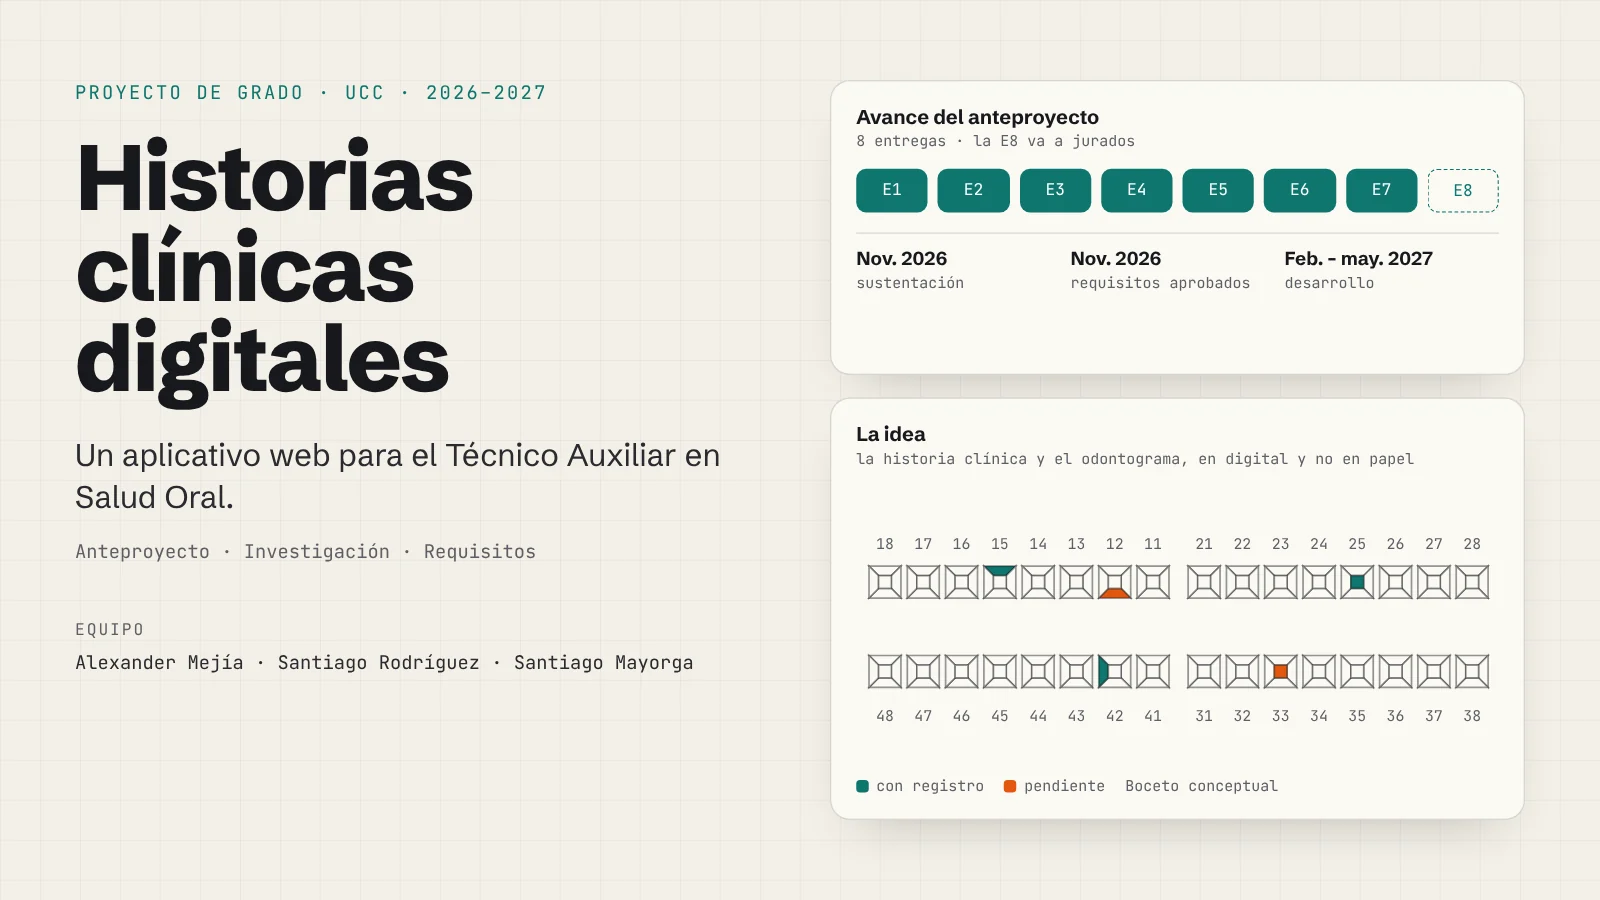
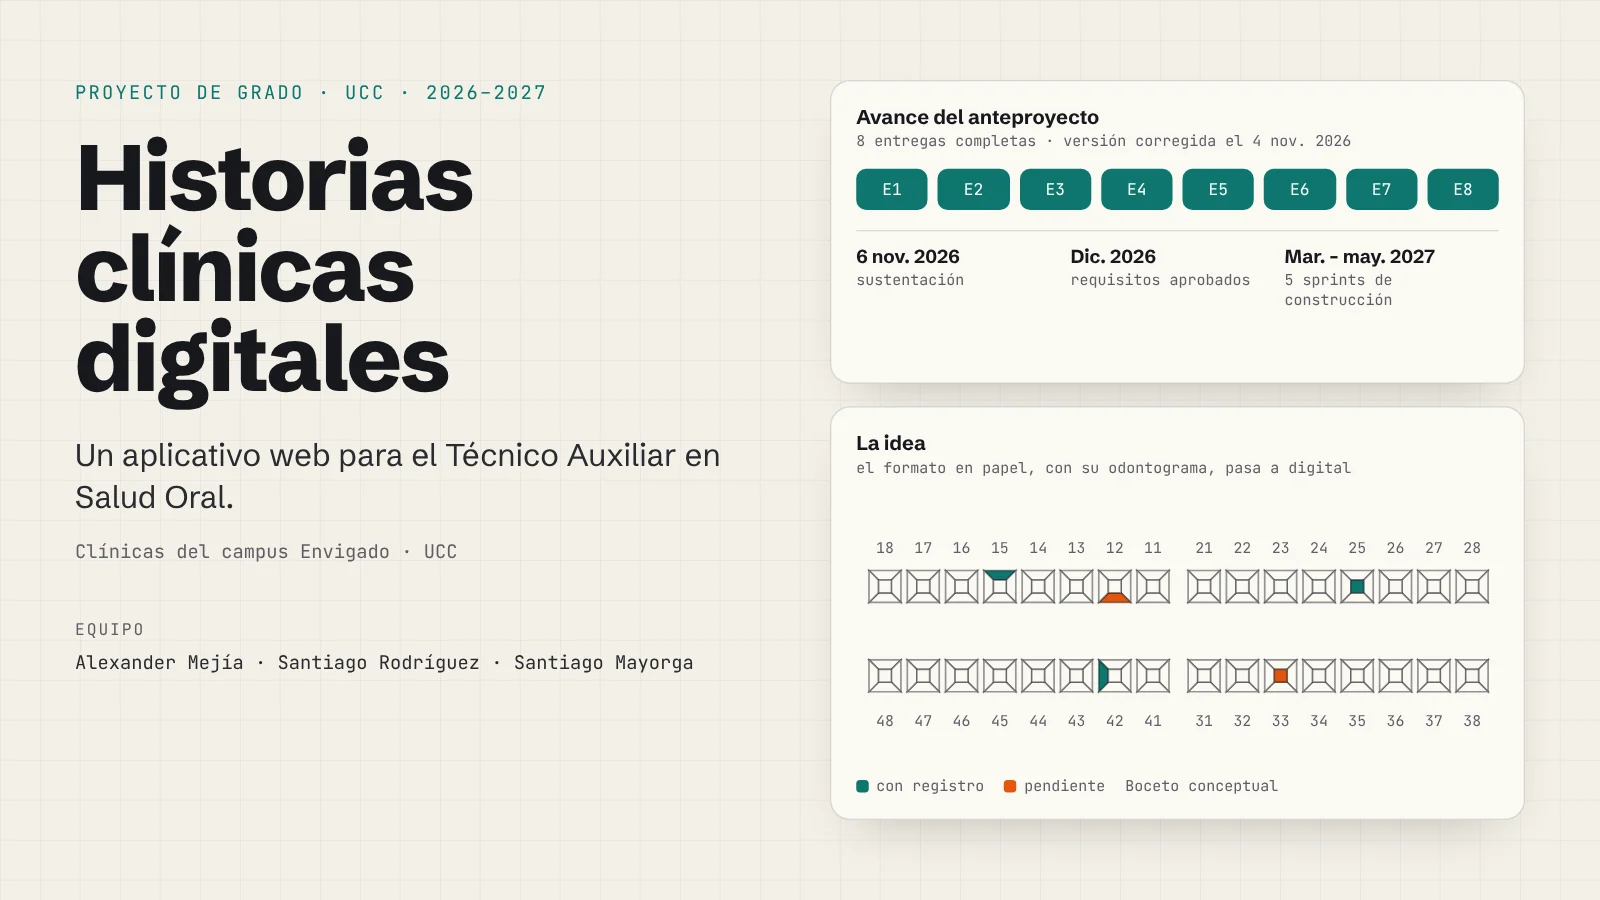
Proyecto de grado: caso completo con datos del anteproyecto (problema, flujo de estados, decisiones, estado y rol)

diff --git a/index.html b/index.html
@@ -33,7 +33,7 @@
   <link rel="me" href="https://github.com/AlexanderM-Code">
   <link rel="me" href="https://www.linkedin.com/in/alexander-mejia-ospina">
   <link rel="preconnect" href="https://cinex-api-lt2q.onrender.com" crossorigin>
-  <link rel="stylesheet" href="css/styles.css?v=2026-11-05c">
+  <link rel="stylesheet" href="css/styles.css?v=2026-11-05d">
   <script>
     // Tema e idioma antes de pintar, para que la página no parpadee.
     (function () {
@@ -53,7 +53,7 @@
       }
     })();
   </script>
-  <script src="js/main.js?v=2026-11-05c" defer></script>
+  <script src="js/main.js?v=2026-11-05d" defer></script>
   <script type="application/ld+json">
   {
     "@context": "https://schema.org",
@@ -882,33 +882,94 @@
           </div>
         </div>
       </dialog>
-      <dialog class="dlg" id="dlg-historias" aria-labelledby="dlg-historias-title">
-        <div class="dlg-inner">
-          <div class="dlg-head">
-            <p class="more-tags"><span class="idx-pill mono st-doc"><i class="st" aria-hidden="true"><b></b><b></b><b></b></i><span data-en="Documenting">En documentación</span></span></p>
-            <p class="more-kind mono" data-en="Capstone project · Team, 2026–2027">Proyecto de grado · En equipo, 2026–2027</p>
-            <div class="case-id"><img class="case-logo" src="assets/logos-proyectos/historias.svg" width="56" height="56" alt="" loading="lazy" decoding="async"><h3 class="dlg-title" id="dlg-historias-title" data-en="Digital dental records">Historias clínicas digitales</h3></div>
-            <button class="dlg-close" type="button" data-close aria-label="Cerrar" data-en-aria="Close"><svg viewBox="0 0 24 24" width="20" height="20" aria-hidden="true"><path d="M6 6l12 12M18 6 6 18" stroke="currentColor" stroke-width="2" stroke-linecap="round"/></svg></button>
+      <dialog class="dlg dlg-case" id="dlg-historias" aria-label="Caso de estudio">
+        <div class="dlg-case-bar"><button class="dlg-close" type="button" data-close aria-label="Cerrar" data-en-aria="Close"><svg viewBox="0 0 24 24" width="20" height="20" aria-hidden="true"><path d="M6 6l12 12M18 6 6 18" stroke="currentColor" stroke-width="2" stroke-linecap="round"/></svg></button></div>
+        <article class="case case-historias" id="historias" aria-labelledby="historias-title">
+          <div class="case-top">
+            <header class="case-head">
+              <p class="case-kind mono"><span class="idx-pill mono st-doc"><i class="st" aria-hidden="true"><b></b><b></b><b></b></i><span data-en="Documenting">En documentación</span></span> <span data-en="Capstone project · Team · 2026–2027">Proyecto de grado · En equipo · 2026–2027</span></p>
+              <div class="case-id"><img class="case-logo" src="assets/logos-proyectos/historias.svg" width="56" height="56" alt="" loading="lazy" decoding="async"><h3 class="case-title" id="historias-title" data-en="Digital dental records">Historias clínicas digitales</h3></div>
+              <p class="case-lede" data-en="A web app so students in the Oral Health Assistant program at UCC Envigado can record each patient visit, and their supervising teacher can review and approve it, without the paper form.">Un aplicativo web para que los estudiantes del Técnico Auxiliar en Salud Oral de la UCC Envigado registren cada atención y su docente la revise y apruebe, sin el formato en papel.</p>
+              <dl class="kpis"><div class="kpi"><dt class="mono" data-en="144">144</dt><dd data-en="patients seen in practice last semester">pacientes atendidos en la práctica el semestre anterior</dd></div><div class="kpi"><dt class="mono" data-en="400–500">400–500</dt><dd data-en="records per semester projected for 2027-1">historias por semestre proyectadas para 2027-1</dd></div><div class="kpi"><dt class="mono" data-en="34">34</dt><dd data-en="students expected in 2027-1, versus 6 today">estudiantes previstos en 2027-1, frente a 6 hoy</dd></div></dl>
+            </header>
+            <ul class="chips" aria-label="Métodos" data-en-aria="Methods">
+              <li data-en="Requirements engineering">Ingeniería de requisitos</li><li>Scrum</li><li data-en="Use cases">Casos de uso</li><li data-en="ER model">Modelo E-R</li><li>ISO/IEC 29148</li><li>ISO/IEC 25010</li>
+            </ul>
+            <p class="small-note" data-en="It is a proposal for now: the code and the demo will be here when construction starts in March 2027.">Por ahora es un anteproyecto: el código y la demo estarán aquí cuando empiece la construcción, en marzo de 2027.</p>
           </div>
-          <div class="dlg-body">
-            <div class="dlg-text">
-              <p class="dlg-lede" data-en="My capstone project: a web app to manage clinical records digitally for the Oral Health Assistant Technician program.">Mi proyecto de grado: un aplicativo web para gestionar de forma digital las historias clínicas del Técnico Auxiliar en Salud Oral.</p>
-              <dl class="kpis"><div class="kpi"><dt class="mono">8</dt><dd data-en="proposal deliverables, E1 to E8">entregas del anteproyecto, de la E1 a la E8</dd></div><div class="kpi"><dt class="mono">3</dt><dd data-en="team members and a technical advisor">integrantes y una asesora técnica</dd></div><div class="kpi"><dt class="mono" data-en="2027">2027</dt><dd data-en="development, February to May">desarrollo, de febrero a mayo</dd></div></dl>
-              <ol class="flow" aria-label="Etapas del proyecto" data-en-aria="Project stages">
-                <li class="flow-step"><span class="flow-k mono">01</span><b data-en="Proposal">Anteproyecto</b><span data-en="E1 to E8">E1 a E8</span></li>
-                <li class="flow-step"><span class="flow-k mono">02</span><b data-en="Defense">Sustentación</b><span data-en="Nov 2026">nov. 2026</span></li>
-                <li class="flow-step"><span class="flow-k mono">03</span><b data-en="Requirements">Requisitos</b><span data-en="approved, Nov 2026">aprobados, nov. 2026</span></li>
-                <li class="flow-step"><span class="flow-k mono">04</span><b data-en="Development">Desarrollo</b><span data-en="Feb – May 2027">feb. – may. 2027</span></li>
-              </ol>
-              <p class="role"><strong data-en="My role:">Mi rol:</strong> <span data-en="research and documentation of the proposal with Santiago Rodríguez and Santiago Mayorga, advised by Adriana Paredes Salinas.">investigación y documentación del anteproyecto con Santiago Rodríguez y Santiago Mayorga, con la asesoría técnica de Adriana Paredes Salinas.</span></p>
-              <p class="small-note" data-en="It is a proposal for now: the code and the demo will be here once development starts.">Por ahora es un anteproyecto: el código y la demo estarán aquí cuando empiece el desarrollo.</p>
+
+          <figure class="case-shot">
+            <img class="pan-hero hist-hero" src="assets/portada-historias.webp" width="1600" height="900" loading="lazy" decoding="async" alt="Portada del proyecto de grado: las 8 entregas del anteproyecto, las fechas de sustentación, requisitos y construcción, y un boceto de odontograma digital" data-en-alt="Capstone cover: the 8 proposal deliverables, the defense, requirements and build dates, and a sketch of a digital dental chart">
+            <figcaption data-en="Today every visit is written on a paper form that the teacher signs and stamps. The app replaces that signature with a traceable review flow.">Hoy cada atención se anota en un formato en papel que el docente firma y sella. El aplicativo reemplaza esa firma con un flujo de revisión trazable.</figcaption>
+          </figure>
+
+          <div class="lab lab-numi" aria-labelledby="hist-flow-title">
+            <div class="lab-head">
+              <div>
+                <h4 class="lab-title" id="hist-flow-title" data-en="How a record moves from student to teacher">Así viaja un registro del estudiante al docente</h4>
+                <p class="lab-sub mono" data-en="Four states, each with its owner, date and time">Cuatro estados, cada uno con responsable, fecha y hora</p>
+              </div>
             </div>
-            <figure class="dlg-media dlg-cover">
-              <img src="assets/portada-historias.webp" width="1600" height="900" loading="lazy" decoding="async" alt="Portada del proyecto de grado: avance del anteproyecto de la E1 a la E8, fechas de sustentación y desarrollo, y un boceto de odontograma digital" data-en-alt="Capstone cover: proposal progress from E1 to E8, defense and development dates, and a sketch of a digital dental chart">
-              <figcaption data-en="Proposal progress and the core idea: the dental chart in digital form.">El avance del anteproyecto y la idea central: el odontograma en digital.</figcaption>
-            </figure>
+            <ol class="pipeline">
+              <li><span class="step-tag mono" data-en="student">estudiante</span><div><p class="step-name" data-en="In progress">En elaboración</p><p data-en="Patient details, history, oral habits, exam, dental chart, plaque index and the RIPS and CUPS codes. No diagnosis field: that is not the assistant&#39;s job.">Datos del paciente, antecedentes, hábitos, examen, odontograma, índice de placa y los códigos RIPS y CUPS. Sin campo de diagnóstico: no le corresponde al auxiliar.</p></div></li>
+              <li><span class="step-tag mono" data-en="student">estudiante</span><div><p class="step-name" data-en="Sent for review">Enviada a revisión</p><p data-en="Only if the required fields are complete. Editing is locked and the 7-day review window starts.">Solo si los campos obligatorios están completos. Se bloquea la edición y corre un plazo de 7 días.</p></div></li>
+              <li><span class="step-tag mono" data-en="teacher">docente</span><div><p class="step-name" data-en="Returned with notes">Devuelta con observaciones</p><p data-en="The student fixes it and sends it again, without losing the review history.">El estudiante corrige y la reenvía, sin perder el historial de revisiones.</p></div></li>
+              <li><span class="step-tag mono" data-en="teacher">docente</span><div><p class="step-name" data-en="Approved">Aprobada</p><p data-en="It can no longer be changed; any later correction is added as a clarifying note with author and date.">Ya no se modifica; cualquier corrección se agrega como nota aclaratoria con autor y fecha.</p></div></li>
+            </ol>
+            <ul class="findings">
+              <li class="finding"><p class="finding-num mono">17</p><p data-en="simultaneous sessions it must handle: half of the students at once.">sesiones simultáneas que debe soportar: la mitad de los estudiantes a la vez.</p></li>
+              <li class="finding"><p class="finding-num mono" data-en="15 yrs">15 años</p><p data-en="minimum retention for a clinical record, so backups are part of the design.">de conservación mínima de una historia clínica, por eso el respaldo es parte del diseño.</p></li>
+              <li class="finding"><p class="finding-num mono">0</p><p data-en="access from outside campus: it runs on a local server, on the internal network only.">accesos desde fuera del campus: corre en un servidor local, solo en la red interna.</p></li>
+            </ul>
           </div>
-        </div>
+
+          <div class="case-more-wrap">
+            <button class="case-toggle" type="button" aria-expanded="false" aria-controls="historias-more">
+              <span class="case-toggle-label">Ver caso completo</span><span class="case-toggle-time"></span>
+              <svg class="case-toggle-icon" viewBox="0 0 24 24" width="18" height="18" aria-hidden="true"><path d="M6 9l6 6 6-6" fill="none" stroke="currentColor" stroke-width="2" stroke-linecap="round" stroke-linejoin="round"/></svg>
+            </button>
+            <div class="case-more" id="historias-more">
+              <div class="case-more-inner">
+                <dl class="facts">
+                  <div class="fact">
+                    <dt class="mono" data-en="Problem">Problema</dt>
+                    <dd data-en="The university already has clinical record software with teacher approval, but only Dentistry uses it. The assistant level was left on paper because its record is simpler and has no diagnosis. Out of eight prior works, none covers that level, the current paper form and authorized use in practice at the same time.">La universidad ya tiene un software de historia clínica con aprobación docente, pero solo lo usa Odontología. El nivel auxiliar quedó en papel porque su historia es más básica y no tiene diagnóstico. De ocho antecedentes revisados, ninguno cubre a la vez ese nivel, el formato vigente y un uso autorizado en la práctica.</dd>
+                  </div>
+                  <div class="fact">
+                    <dt class="mono" data-en="What we propose">Qué proponemos</dt>
+                    <dd data-en="A web app with three roles (student, supervising teacher and coordination) that follows the program&#39;s paper form section by section: record, send for review, approve or return, search the history by name or ID, and PDF reports by student and period.">Un aplicativo web con tres roles (estudiante, docente supervisor y coordinación) que sigue sección por sección el formato en papel del programa: registrar, enviar a revisión, aprobar o devolver, consultar el historial por nombre o documento y sacar reportes en PDF por estudiante y periodo.</dd>
+                  </div>
+                  <div class="fact">
+                    <dt class="mono" data-en="Technical decisions">Decisiones técnicas</dt>
+                    <dd>
+                      <ul class="ticks">
+                        <li data-en="We compared 5 alternatives with a 7-criteria matrix; building our own app on a campus server was the only one that passed every eliminating criterion (2.60 points).">Comparamos 5 alternativas con una matriz de 7 criterios; el aplicativo propio en un servidor del campus fue el único que pasó todos los criterios eliminatorios (2,60 puntos).</li>
+                        <li data-en="A three-layer modular monolith: the review rules live in one place and can be tested without the UI.">Monolito modular de tres capas: las reglas de revisión viven en un solo lugar y se prueban sin pasar por la interfaz.</li>
+                        <li data-en="Relational database, an audit log of every action and role- and group-based access, because health data is sensitive under Law 1581 of 2012.">Base de datos relacional, bitácora de cada acción y acceso por rol y grupo, porque los datos de salud son sensibles según la Ley 1581 de 2012.</li>
+                        <li data-en="9 use cases, 10 functional and 7 non-functional requirements, each with a testable acceptance criterion.">9 casos de uso, 10 requisitos funcionales y 7 no funcionales, cada uno con un criterio de aceptación comprobable.</li>
+                      </ul>
+                    </dd>
+                  </div>
+                  <div class="fact">
+                    <dt class="mono" data-en="Status">Estado</dt>
+                    <dd data-en="Proposal finished (E1 to E8), defended on November 6, 2026. Next: requirements approved by the program in December, detailed design in February and five two-week sprints from March to May 2027, tested only with fictitious data.">Anteproyecto terminado (E1 a E8), con sustentación el 6 de noviembre de 2026. Sigue: requisitos aprobados por la coordinación en diciembre, diseño detallado en febrero y cinco sprints de dos semanas entre marzo y mayo de 2027, probado solo con datos ficticios.</dd>
+                  </div>
+                  <div class="fact">
+                    <dt class="mono" data-en="My role">Mi rol</dt>
+                    <dd data-en="Co-author of the proposal with Santiago Rodríguez and Santiago Mayorga, advised by Adriana Paredes Salinas. I signed for the team on the advisory minutes and on the decision record for the chosen alternative.">Coautor del anteproyecto con Santiago Rodríguez y Santiago Mayorga, con la asesoría técnica de Adriana Paredes Salinas. Firmé como representante del equipo las actas de asesoría y el registro de la decisión de la alternativa.</dd>
+                  </div>
+                </dl>
+                <div class="learned">
+                  <h4 class="learned-title mono" data-en="What I learned">Qué aprendí</h4>
+                  <ul class="ticks">
+                    <li data-en="Before proposing software you have to prove the gap: teacher approval already existed in three solutions, so it could not be our contribution.">Antes de proponer software hay que demostrar la brecha: la aprobación docente ya existía en tres soluciones, así que no podía ser nuestro aporte.</li>
+                    <li data-en="Without a measured baseline you cannot promise improvements: savings in paper or review time are stated as potential until we measure them.">Sin línea base medida no se pueden prometer mejoras: el ahorro de papel o de tiempo de revisión queda como potencial hasta medirlo.</li>
+                  </ul>
+                </div>
+              </div>
+            </div>
+          </div>
+        </article>
       </dialog>
       <dialog class="dlg dlg-nb" id="dlg-nb" aria-labelledby="dlg-nb-title">
         <div class="nb-bar">

diff --git a/css/styles.css b/css/styles.css
@@ -1615,3 +1615,6 @@ main, .footer { transition: opacity 180ms ease; }
 :root[data-theme="dark"] .st-doc .st { --c: #3fb8a9; }
 @media (prefers-color-scheme: dark) { :root:not([data-theme="light"]) .st-doc .st { --c: #3fb8a9; } }
 #dlg-historias .flow { margin-top: 4px; }
+.hist-hero { display: block; width: 100%; height: auto; aspect-ratio: 16 / 9; border-radius: var(--radius); border: var(--shot-border); box-shadow: var(--shot-shadow); background: var(--paper-2); }
+.case-historias .pipeline .step-tag { font-size: 0.75rem; }
+.kpi dt { white-space: nowrap; }
